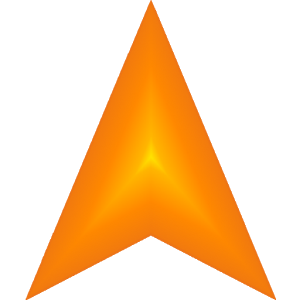
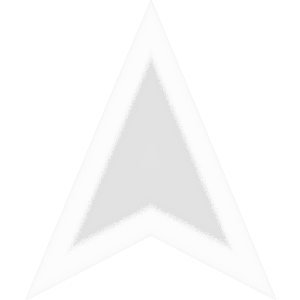
Made arrow translucent

diff --git a/index.html b/index.html
@@ -26,7 +26,7 @@
         <script id="link" type="text/html">
           <a-entity class="link"
             geometry="primitive: plane; height: 0.5; width: 1"
-            material="shader: flat; src: ${thumb}; alphaTest: 0.5"
+            material="shader: flat; src: ${thumb}; alphaTest: 0.5; opacity: 0.6"
             event-set__1="_event: mousedown; scale: 1 1 1"
             event-set__2="_event: mouseup; scale: 1.2 1.2 1"
             event-set__3="_event: mouseenter; scale: 1.2 1.2 1"
